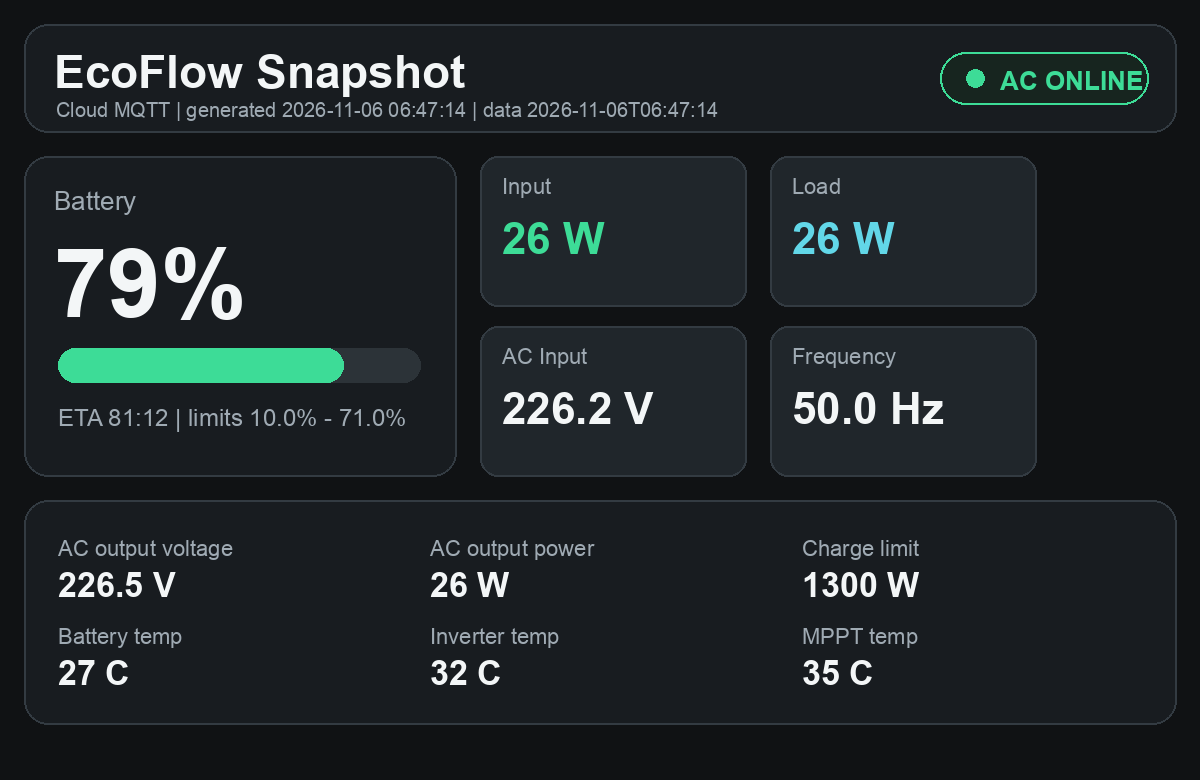
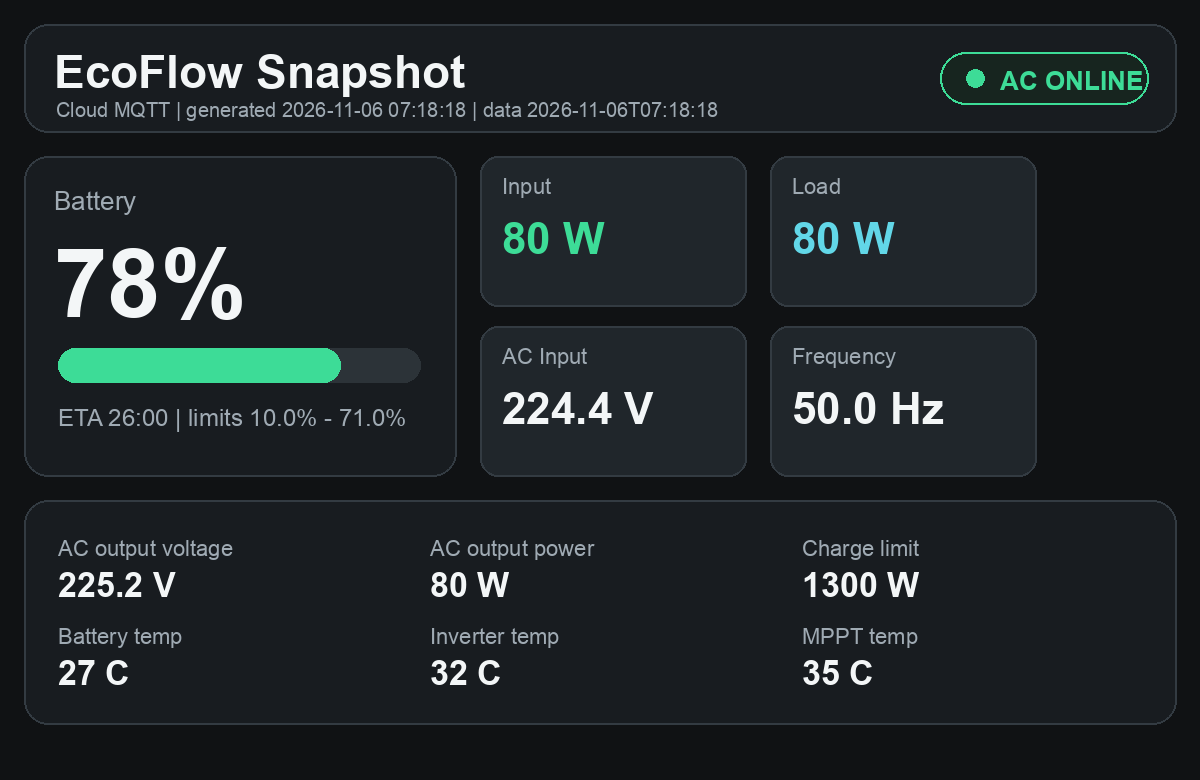
Update EcoFlow dashboard 2026-11-06 07:18:18

diff --git a/index.html b/index.html
@@ -75,7 +75,7 @@
       overflow: hidden;
       margin-top: 14px;
     }
-    .fill { width: 79%; height: 100%; background: linear-gradient(90deg, var(--green), var(--cyan)); }
+    .fill { width: 78%; height: 100%; background: linear-gradient(90deg, var(--green), var(--cyan)); }
     .cards {
       display: grid;
       grid-template-columns: repeat(4, minmax(0, 1fr));
@@ -177,7 +177,7 @@
   <header>
     <div>
       <h1>EcoFlow Snapshot</h1>
-      <div class="sub">Cloud MQTT · generated 2026-11-06T06:47:14 · data 2026-11-06T06:47:14</div>
+      <div class="sub">Cloud MQTT · generated 2026-11-06T07:18:18 · data 2026-11-06T07:18:18</div>
     </div>
     <div class="status online"><span class="dot"></span><span>AC online</span></div>
   </header>
@@ -187,22 +187,22 @@
   <div class="grid">
     <section>
       <h2>Battery</h2>
-      <div class="value">79%</div>
+      <div class="value">78%</div>
       <div class="battery"><div class="fill"></div></div>
-      <div class="row"><span>ETA</span><span>81:12</span></div>
+      <div class="row"><span>ETA</span><span>26:00</span></div>
       <div class="row"><span>SOC limits</span><span>10.0% - 71.0%</span></div>
     </section>
     <section>
       <h2>AC</h2>
-      <div class="row"><span>Input voltage</span><span>226.2 V</span></div>
+      <div class="row"><span>Input voltage</span><span>224.4 V</span></div>
       <div class="row"><span>Input frequency</span><span>50.0 Hz</span></div>
-      <div class="row"><span>Output voltage</span><span>226.5 V</span></div>
+      <div class="row"><span>Output voltage</span><span>225.2 V</span></div>
     </section>
   </div>
 
   <div class="cards">
-    <div class="card"><span class="label">Input</span><span class="value">26 W</span></div>
-    <div class="card"><span class="label">Load</span><span class="value">26 W</span></div>
+    <div class="card"><span class="label">Input</span><span class="value">80 W</span></div>
+    <div class="card"><span class="label">Load</span><span class="value">80 W</span></div>
     <div class="card"><span class="label">Battery temp</span><span class="value">27°C</span></div>
     <div class="card"><span class="label">Inverter temp</span><span class="value">32°C</span></div>
   </div>
@@ -212,12 +212,12 @@
       <h2>Останні 24 години</h2>
       <div class="daily-grid">
         <div class="daily-item"><span class="label">Напруга min / max</span><strong>214 V / 231 V</strong><small>05.11 10:32 / 05.11 12:29</small></div>
-        <div class="daily-item"><span class="label">SOC min / max</span><strong>79% / 82%</strong><small>06.11 04:36 / 05.11 12:01</small></div>
+        <div class="daily-item"><span class="label">SOC min / max</span><strong>78% / 82%</strong><small>06.11 07:18 / 05.11 12:01</small></div>
         <div class="daily-item"><span class="label">Пік навантаження</span><strong>315 W</strong><small>05.11 20:38</small></div>
         <div class="daily-item"><span class="label">Зарядний ліміт</span><strong>1300 W</strong><small>пік входу 1347 W · 104% ліміту</small></div>
         <div class="daily-item"><span class="label">Заряджання</span><strong>4 хв</strong><small>останнє 05.11 12:00</small></div>
         <div class="daily-item"><span class="label">Розряджання</span><strong>0 сек</strong><small>--</small></div>
-        <div class="daily-item"><span class="label">Енергія вхід / вихід</span><strong>279 Wh / 189 Wh</strong><small>оцінка за sample-ами</small></div>
+        <div class="daily-item"><span class="label">Енергія вхід / вихід</span><strong>280 Wh / 190 Wh</strong><small>оцінка за sample-ами</small></div>
         <div class="daily-item"><span class="label">Частота min / max</span><strong>50.0 Hz / 50.0 Hz</strong><small>05.11 09:03 / 05.11 09:03</small></div>
       </div>
     </section>
@@ -249,24 +249,24 @@
   &quot;ok&quot;: true,
   &quot;source&quot;: &quot;Cloud MQTT&quot;,
   &quot;device&quot;: &quot;DELTA Pro&quot;,
-  &quot;timestamp&quot;: &quot;2026-11-06T06:47:14&quot;,
+  &quot;timestamp&quot;: &quot;2026-11-06T07:18:18&quot;,
   &quot;grid&quot;: true,
   &quot;battery&quot;: {
-    &quot;soc&quot;: 79,
+    &quot;soc&quot;: 78,
     &quot;min&quot;: 10.0,
     &quot;max&quot;: 71.0,
-    &quot;eta&quot;: &quot;81:12&quot;
+    &quot;eta&quot;: &quot;26:00&quot;
   },
   &quot;power&quot;: {
-    &quot;in&quot;: 26,
-    &quot;out&quot;: 26,
-    &quot;acOut&quot;: 26,
+    &quot;in&quot;: 80,
+    &quot;out&quot;: 80,
+    &quot;acOut&quot;: 80,
     &quot;chargeLimit&quot;: 1300
   },
   &quot;ac&quot;: {
-    &quot;inputVoltage&quot;: 226.168,
+    &quot;inputVoltage&quot;: 224.408,
     &quot;inputFreq&quot;: 50.0,
-    &quot;outputVoltage&quot;: 226.519
+    &quot;outputVoltage&quot;: 225.198
   },
   &quot;temps&quot;: {
     &quot;battery&quot;: 27,
@@ -391,16 +391,16 @@
   ],
   &quot;telemetry&quot;: {
     &quot;window&quot;: &quot;24h&quot;,
-    &quot;sample_count&quot;: 100,
+    &quot;sample_count&quot;: 101,
     &quot;from&quot;: &quot;2026-11-05T09:03:10&quot;,
-    &quot;to&quot;: &quot;2026-11-06T06:47:14&quot;,
+    &quot;to&quot;: &quot;2026-11-06T07:18:18&quot;,
     &quot;latest&quot;: {
       &quot;mode&quot;: &quot;idle&quot;,
       &quot;grid&quot;: true,
-      &quot;soc&quot;: 79.0,
-      &quot;ac_v&quot;: 226.168,
-      &quot;in_w&quot;: 26.0,
-      &quot;out_w&quot;: 26.0,
+      &quot;soc&quot;: 78.0,
+      &quot;ac_v&quot;: 224.408,
+      &quot;in_w&quot;: 80.0,
+      &quot;out_w&quot;: 80.0,
       &quot;charge_limit_w&quot;: 1300.0
     },
     &quot;voltage&quot;: {
@@ -423,8 +423,8 @@
     },
     &quot;soc&quot;: {
       &quot;min&quot;: {
-        &quot;value&quot;: 79.0,
-        &quot;ts&quot;: &quot;2026-11-06T04:36:30&quot;
+        &quot;value&quot;: 78.0,
+        &quot;ts&quot;: &quot;2026-11-06T07:18:18&quot;
       },
       &quot;max&quot;: {
         &quot;value&quot;: 82.0,
@@ -446,16 +446,16 @@
       },
       &quot;charge_limit_w&quot;: 1300.0,
       &quot;max_input_pct_of_current_limit&quot;: 104,
-      &quot;input_wh_est&quot;: 278.8,
-      &quot;load_wh_est&quot;: 188.6
+      &quot;input_wh_est&quot;: 280.1,
+      &quot;load_wh_est&quot;: 189.9
     },
     &quot;modes&quot;: {
       &quot;charging_sec&quot;: 250,
       &quot;discharging_sec&quot;: 0,
-      &quot;idle_sec&quot;: 11125,
+      &quot;idle_sec&quot;: 11305,
       &quot;charging&quot;: &quot;4 хв&quot;,
       &quot;discharging&quot;: &quot;0 сек&quot;,
-      &quot;idle&quot;: &quot;3 год 05 хв&quot;,
+      &quot;idle&quot;: &quot;3 год 08 хв&quot;,
       &quot;last_charging&quot;: {
         &quot;ts&quot;: &quot;2026-11-05T12:00:12&quot;,
         &quot;grid&quot;: true,
